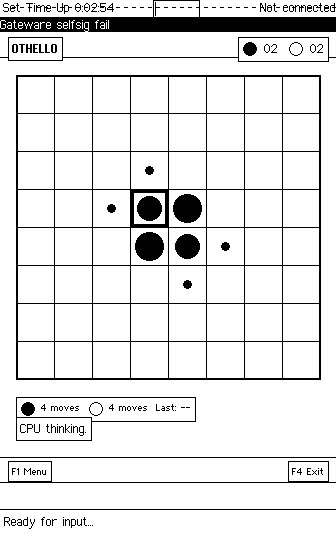
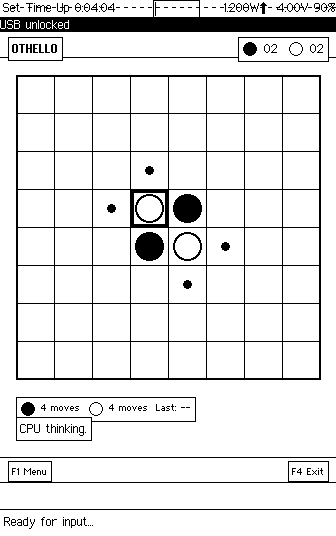
Fix disc colors: white pieces now render correctly
DrawStyle::new takes (fill, stroke, width) but was being called with
(stroke, fill, width), causing white pieces to render as black.

Now white pieces show as light-filled circles with dark outlines,
matching the classic Othello appearance.

diff --git a/src/ui.rs b/src/ui.rs
@@ -252,7 +252,7 @@ fn draw_board(app: &OthelloApp, gam: &Gam, board: &Board, cursor: Option<(u8, u8
                     Circle::new_with_style(
                         center,
                         disc_r,
-                        DrawStyle::new(stroke, fill, 2),
+                        DrawStyle::new(fill, stroke, 2),  // fill first, then stroke
                     ),
                 )
                 .ok();
